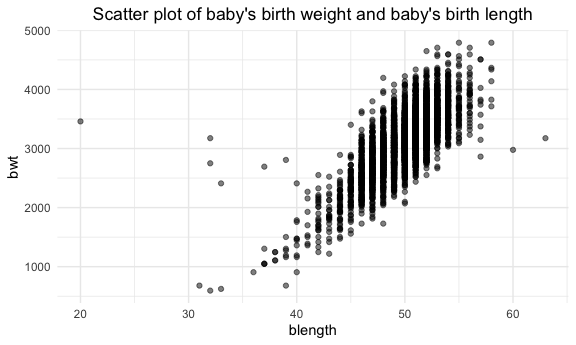
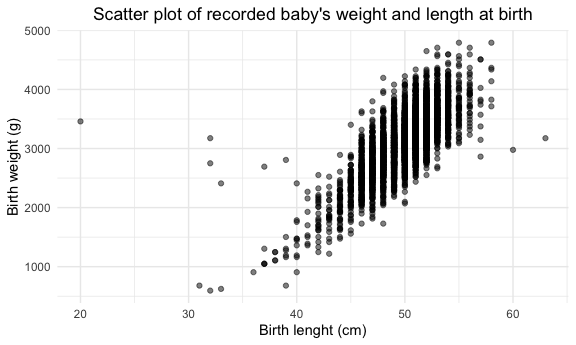
problem 3 - knitting

diff --git a/p8105_hw6_mm5951.md b/p8105_hw6_mm5951.md
@@ -103,7 +103,9 @@ scatter plot as an exploratory analysis (using `ggplot()`).
 birthweight %>% 
   ggplot(aes(x = blength, y = bwt)) + 
   geom_point(alpha = .5) +
-  labs(title = "Scatter plot of baby's birth weight and baby's birth length") +
+  labs(title = "Scatter plot of recorded baby's weight and length at birth",
+        x = "Birth lenght (cm)", 
+       y = "Birth weight (g)") +
   theme(plot.title = element_text(hjust = 0.5))
 ```
 
@@ -134,7 +136,7 @@ birthweight %>%
   modelr::add_predictions(fit1) %>% 
   ggplot(aes(x = pred, y = resid)) +
   geom_point(alpha = .3) +
-  labs(title = "Plot of model residuals against fitted values for fit1 model",
+  labs(title = "Fit1 model: plot of model residuals against fitted values",
        x = "Fitted Values",
        y = "Residuals") +
   theme(plot.title = element_text(hjust = 0.5))
@@ -176,7 +178,7 @@ birthweight %>%
   modelr::add_predictions(fit2) %>% 
   ggplot(aes(x = pred, y = resid)) +
   geom_point(alpha = .3) +
-  labs(title = "Plot of model residuals against fitted values for fit2 model",
+  labs(title = "Fit2 model: plot of model residuals against fitted values",
        x = "Fitted Values",
        y = "Residuals") +
   theme(plot.title = element_text(hjust = 0.5))
@@ -209,7 +211,7 @@ birthweight %>%
   modelr::add_predictions(fit3) %>% 
   ggplot(aes(x = pred, y = resid)) +
   geom_point(alpha = .3) +
-  labs(title = "Plot of model residuals against fitted values for fit3 model",
+  labs(title = "Fit3 model: plot of model residuals against fitted values",
        x = "Fitted Values",
        y = "Residuals") +
   theme(plot.title = element_text(hjust = 0.5))
@@ -258,15 +260,18 @@ cv_df %>%
   ggplot(aes(x = model, y = rmse)) + geom_violin() +
   labs(
     title = "distribution of RMSE values for three candidate model",
-    y = "Root-mean-square-deviation"
+    x = "Model",
+    y = "Root-mean-square-deviation (RMSE)"
   ) +
   theme(plot.title = element_text(hjust = 0.5))
 ```
 
 <img src="p8105_hw6_mm5951_files/figure-gfm/unnamed-chunk-8-1.png" width="90%" />
 
-According to the distribution of RMSE, fit3 model have the lowest RMSE
-value and the distribution is more centered, meaning that fit3 would be
-the most optimal model among three candidate models.
+As per the visualization above, it becomes apparent that fit3 model has
+the lowest RMSE value (around 275) when compared to the other two models
+(RMSE around 325). Moreover, fit3 RMSE has a more centered distribution.
+Overall, it indicates that fit3 would be the best fitting model of the
+three candidates investigated.
 
 *That’s it for homework 6!*
